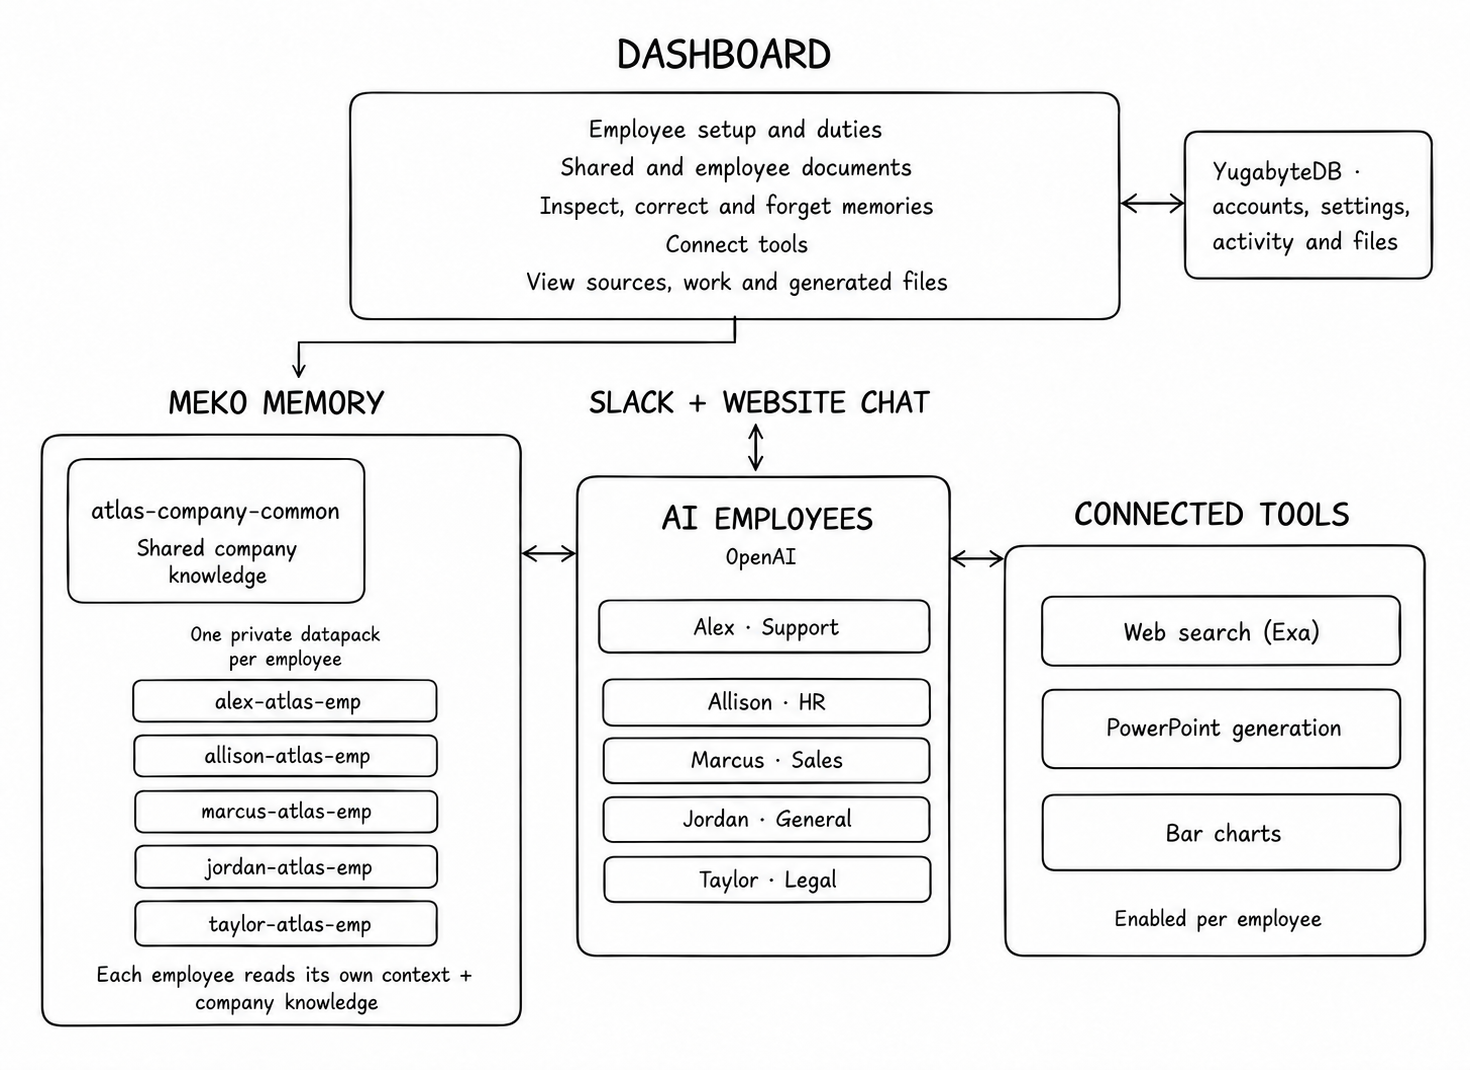
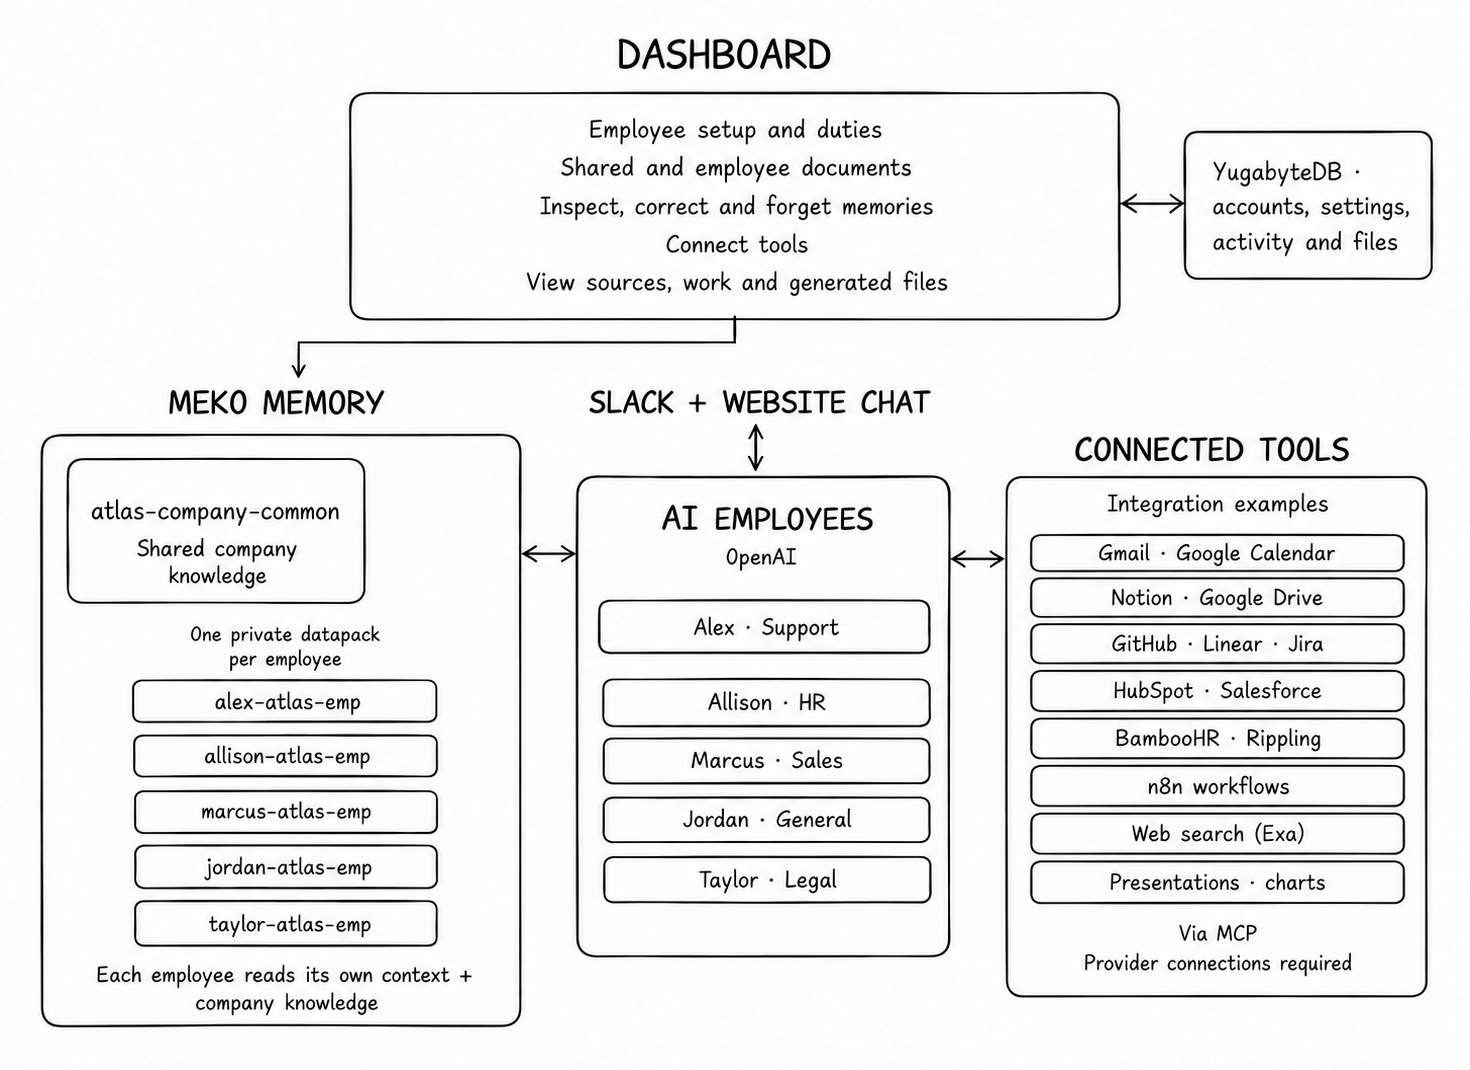
show the broader coworker workflows and tool integrations

diff --git a/README.md b/README.md
@@ -4,11 +4,13 @@
 
 OpenHuman turns company knowledge into AI coworkers that work alongside you in Slack. A **datapack** is Meko's container for conversations, memories and documents. Each coworker gets a private one, along with a role, instructions and connected tools. One common company datapack gives the whole team shared context.
 
-Meko gives these coworkers continuity: a support fix, company decision or customer preference can inform the next task. OpenHuman connects that memory to useful work—answering customers, researching prospects and creating presentations. As the team works, a shared chat router sends new context to the right datapacks, and Meko extracts facts employees can recall later.
+Meko gives these coworkers continuity: a support fix, company decision or customer preference can inform the next task. OpenHuman makes that context actionable. Coworkers use the tools connected to their role to work across your team's systems, follow company rules and carry a task through several steps. A shared chat router sends new context to the right datapacks, and Meko extracts facts employees can recall later.
 
 Built by **tungtungtungsahur** for **hackCBS 9.0 · Meko Track A**.
 
 ## Architecture
+
+Tool connections use the **Model Context Protocol (MCP)**. The diagram includes integration examples; the [setup guide](docs/setup.md#employee-actions) lists current connection support.
 
 ![OpenHuman architecture: dashboard, AI employees, connected tools, and Meko with one common company datapack and separate employee datapacks](docs/assets/architecture.png)
 
@@ -16,16 +18,18 @@ Example layout for Atlas. Each employee reads its own context and the common com
 
 ## What you can build
 
-- **Customer support:** give Alex product guides and runbooks so he can explain the right fix, find the escalation owner and draft a customer reply.
-- **HR:** give Allison the company handbook and private leave records so she can answer policy questions and check remaining leave.
-- **Sales:** give Marcus your product brief so he can research prospects and turn the findings into a presentation.
+The role, knowledge and connected tools determine what a coworker can take on:
+
+- **Customer support:** use product guides and past resolutions to handle familiar problems, prepare replies and follow up through connected support workflows.
+- **HR:** apply company policy to private employee records, check leave balances and handle requests through connected HR workflows.
+- **Sales:** combine product knowledge and past customer conversations to research prospects, prepare account briefs and help with follow-ups.
 
 ## What you can do
 
 - Give each employee the documents relevant to their job.
 - Talk through Slack mentions, direct messages and threads, or use **Chat** on the website.
 - Inspect recalled sources and saved memories; add, correct or forget a fact.
-- Connect web search, PowerPoint generation and bar charts. Review the results and download generated files from the website.
+- Connect tools so employees can act across your team's systems. Review tool results, completed work and generated files from the website.
 
 ## Setup in five steps
 
